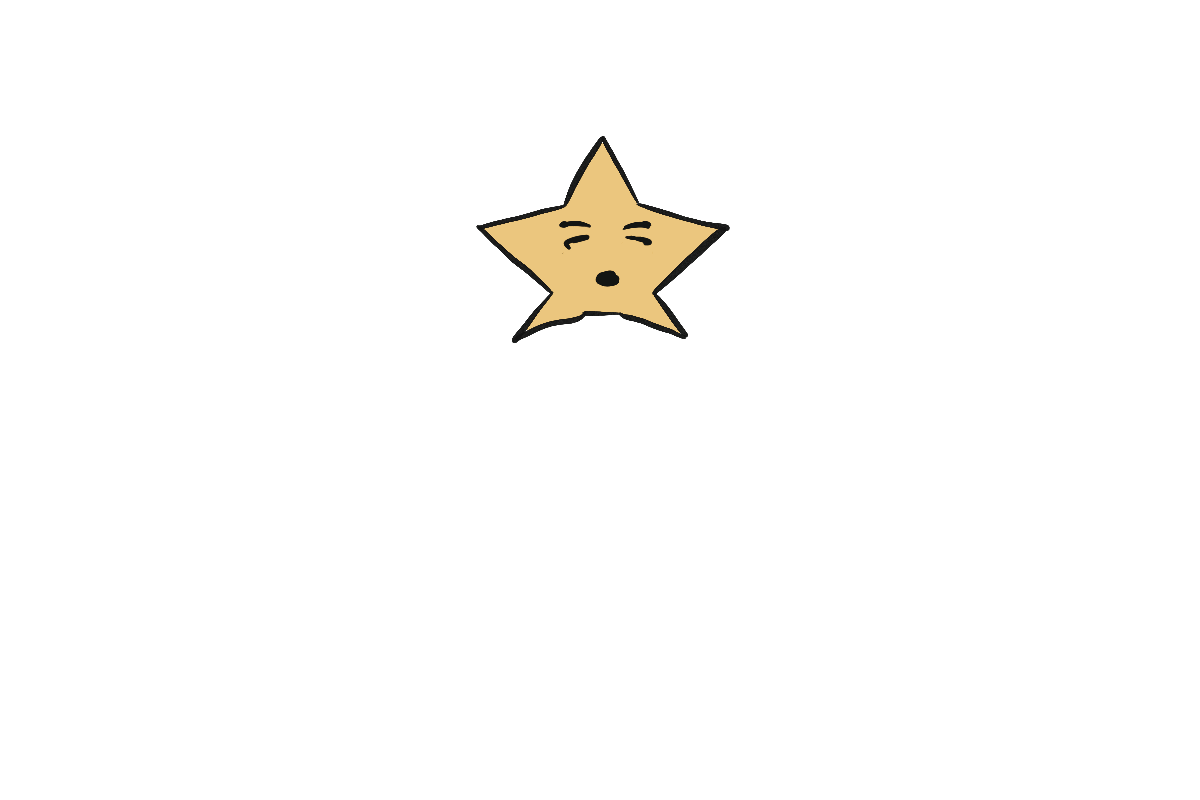
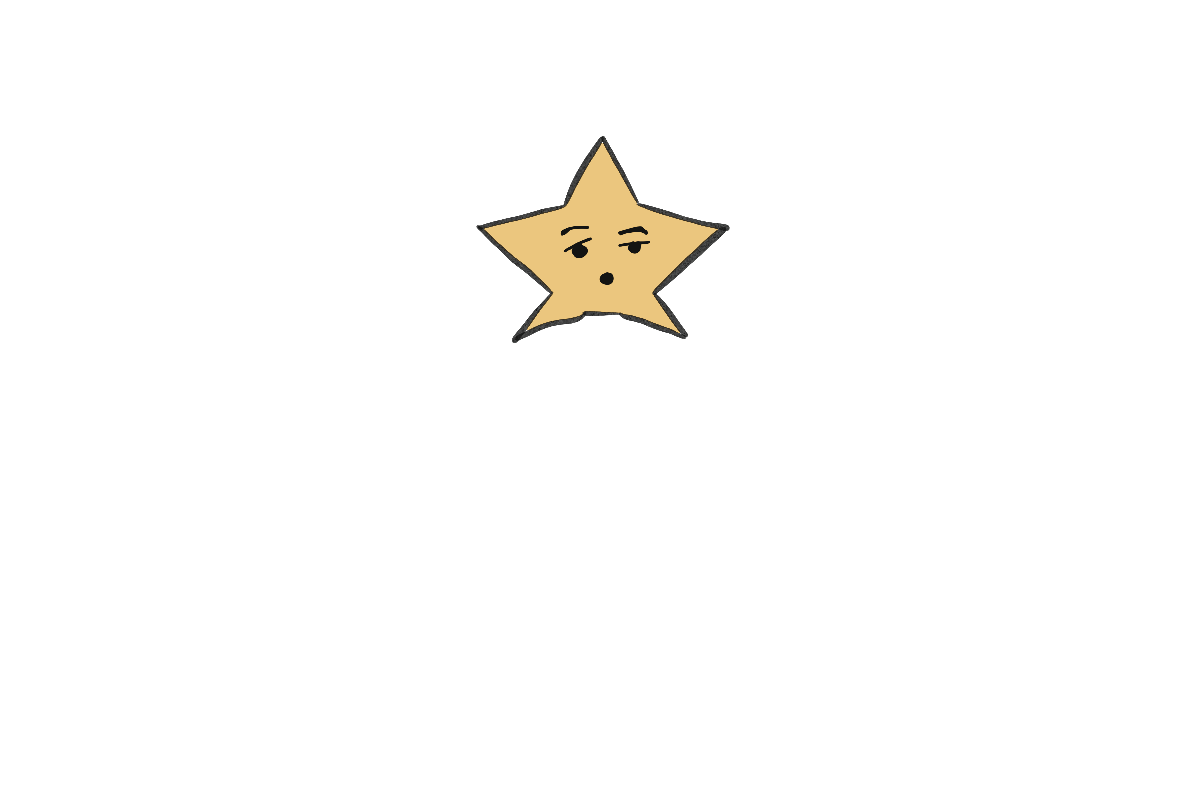
currentt with colour

Changed region(s): [[0.4008, 0.1562, 0.5858, 0.4375], [0.5858, 0.2812, 0.6167, 0.3125], [0.555, 0.3125, 0.5858, 0.3438]]

diff --git a/music_effect.js b/music_effect.js
@@ -1,30 +1,41 @@
 let firstRun = true
 
+let buildingColour;
+let buildingOutline;
 let bodyOfStar;
+
+
 let starFace = [];
 function draw_one_frame(words, vocal, drum, bass, other,counter) {
   
   if (firstRun) {
     rectMode(CENTER);
+    buildingOutline = loadImage('outline.png');
+    buildingColour = loadImage('colourIN.png');
     bodyOfStar = loadImage('starbody.png');
     starFace.push(loadImage('star_0.png'));
     starFace.push(loadImage('star_1.png'));
     starFace.push(loadImage('star_2.png'));
+    starFace.push(loadImage('star_3.png'));
+    starFace.push(loadImage('star_4.png'));
     
     firstRun = false
   }
   
- background(25);
+ background(255);
 
- var bodyHeight = map(vocal, -500, 10, 100, 25)
+ var movementBuild = map(drum, 0, 100, -10, 10)
+ var bodyHeight = map(vocal, -50, 140, 50, -20)
  
- image(bodyOfStar, bodyHeight, 10);
- var VocalFrame = int(map(vocal,0,100,0,3));
+ image(buildingColour, movementBuild, 0);
+ image(buildingOutline, 0, 0);
+ image(bodyOfStar, 220, 1200);
+ var VocalFrame = int(map(vocal,0,100,0,5));
  console.log(VocalFrame);
  push();
  //scale();
  translate(-580, -390);
- image(starFace[VocalFrame], bodyHeight+575, height/2)
+ image(starFace[VocalFrame], width/2, height/1.51)
  
  pop();
 

diff --git a/system_runner.js b/system_runner.js
@@ -1,5 +1,5 @@
-const canvasWidth = 1200;
-const canvasHeight = 800;
+const canvasWidth = 1600;
+const canvasHeight = 2400;
 
 
 let mainCanvas;
